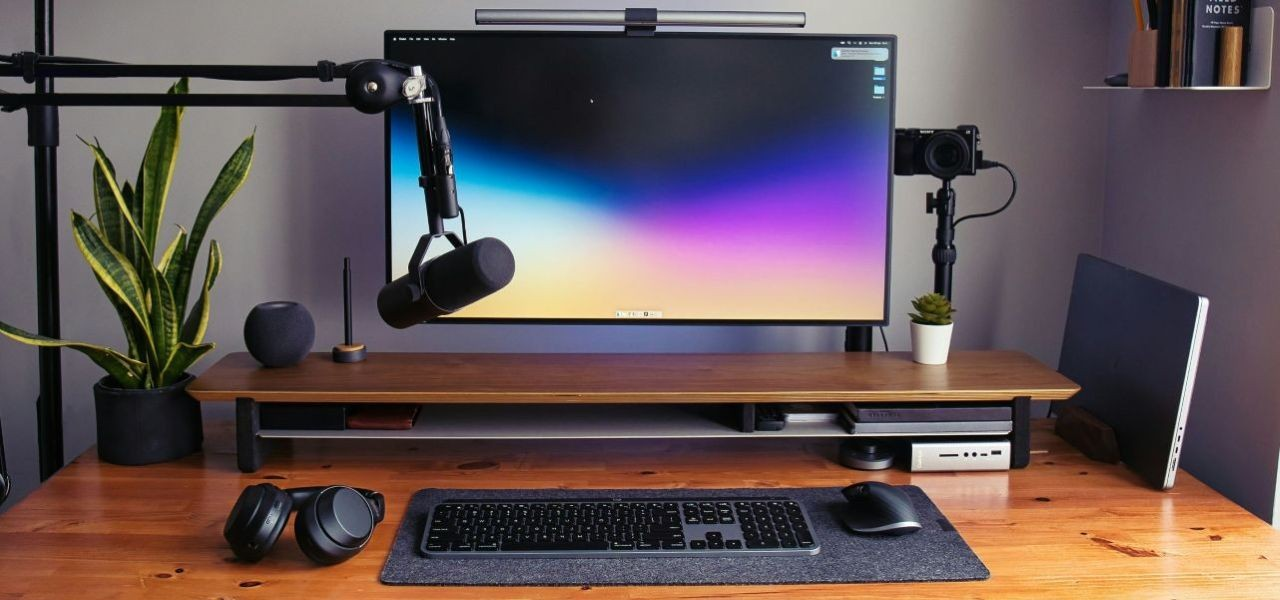
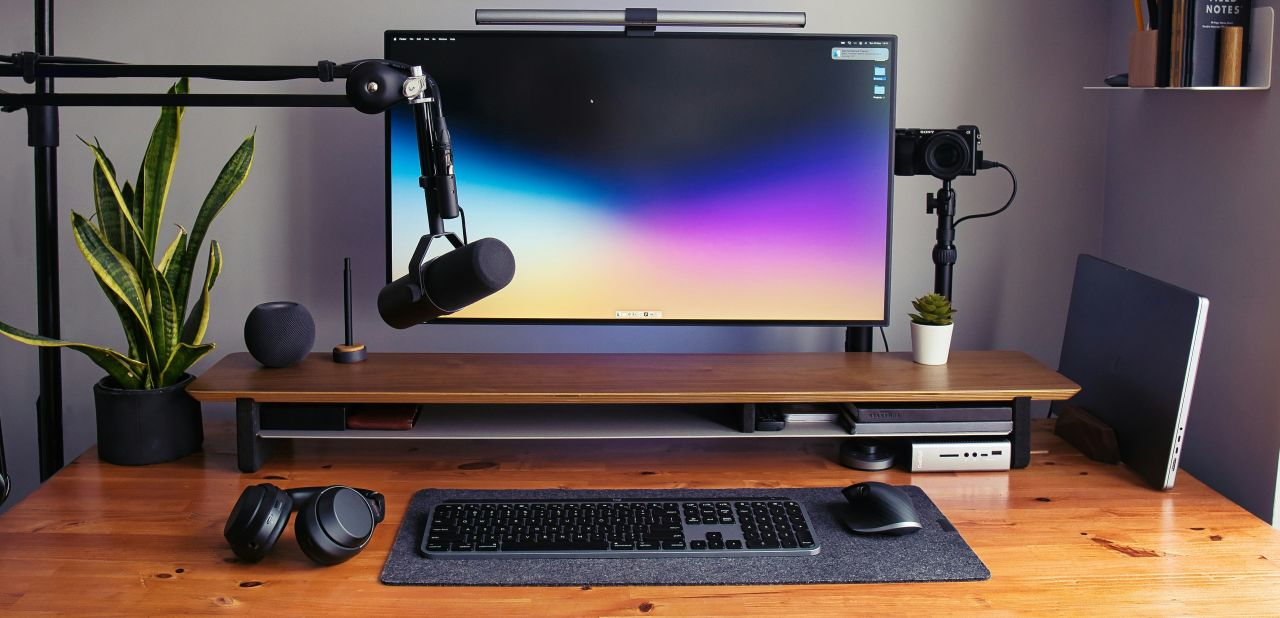
changed photo

diff --git a/_sass/minimal-mistakes/_masthead.scss b/_sass/minimal-mistakes/_masthead.scss
@@ -84,7 +84,6 @@
   list-style-type: none;
   white-space: nowrap;
   font-weight: bold;
-  color: #fff
 
   &--lg {
     padding-inline-end: 2em;

diff --git a/index.md b/index.md
@@ -3,7 +3,7 @@ layout: home
 permalink: /
 title: ""
 header:
-  image: /assets/images/CleanDesk.png
+  image: /assets/images/CleanDesk.jpg
   caption: "Photo credit: [**Unsplash**](https://unsplash.com)"
 feature_row:
 - image_path: /assets/images/BH-run-berg-teaser-500x300.jpg
